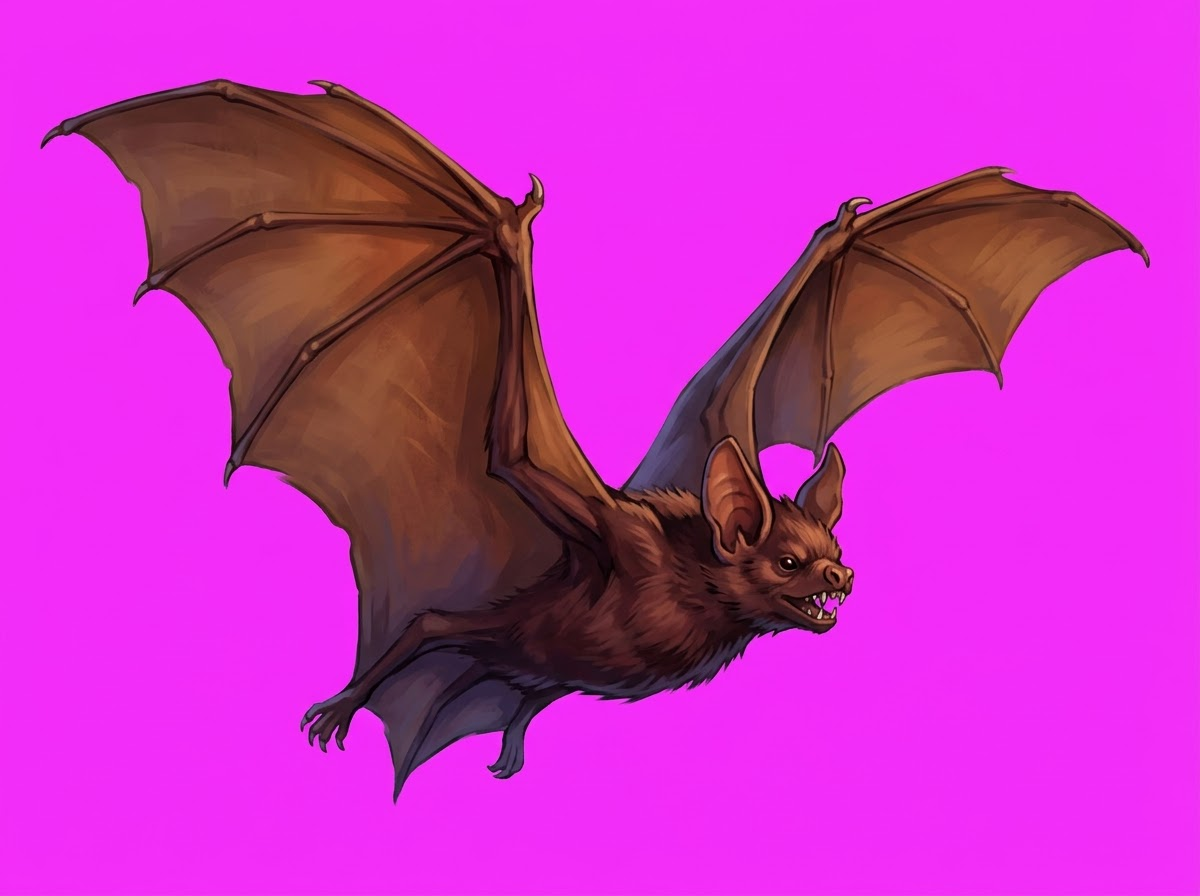
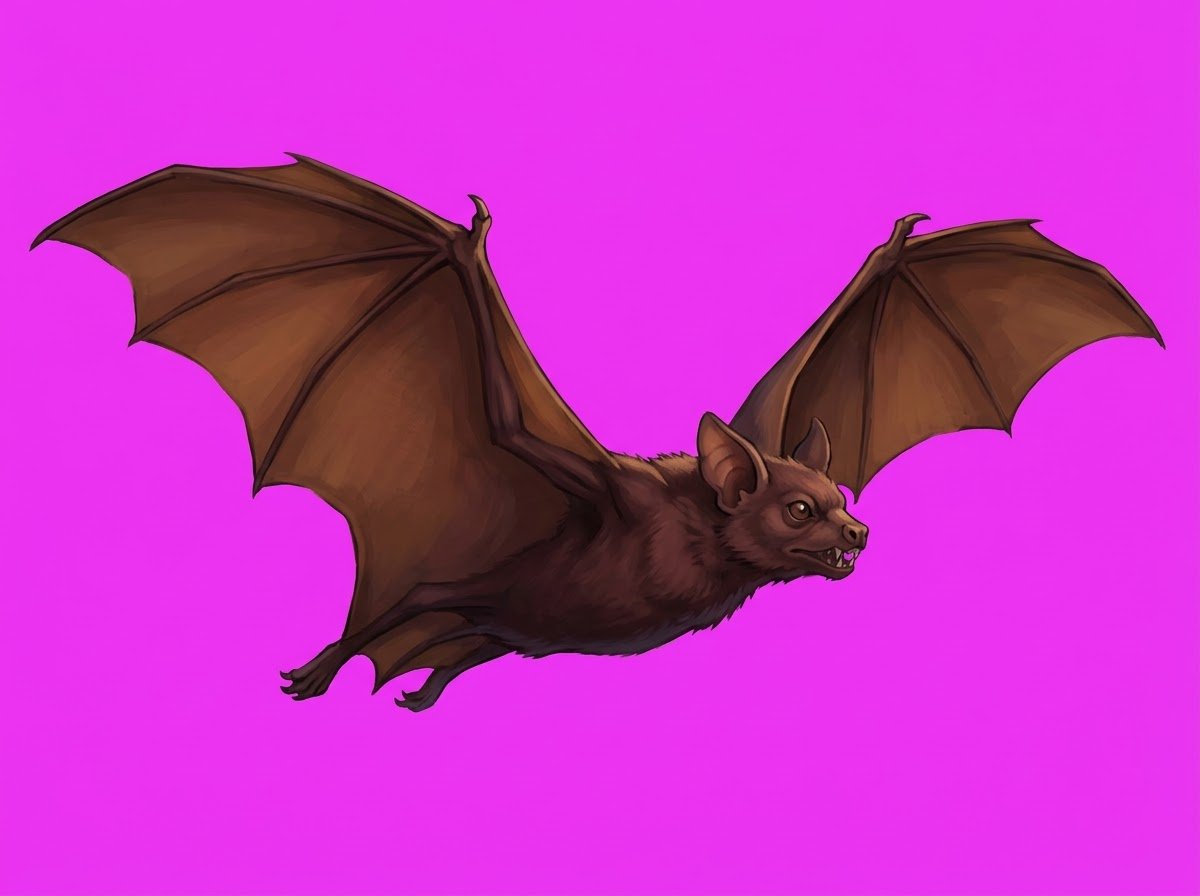
M5: bat attempt 2 fixes the wings, not the head; recommend an edit next (#46)
palette-check.py: 0.00% neutral-dark. The wing fix from the reroll held:
level, symmetric, the same angle on both sides, the neutral flap-cycle
point attempt 1 lacked. The head fix did not: zoomed in, two ears are
visible, one facing the camera and a second peeking out from behind it,
the plainest three-quarter tell there is. Matt's read against the full
image ("looks 3/4 to me") measured out correct once checked up close.

Recommending an attach-and-edit naming just the head rather than a third
fresh generation: GEMINI_NOTES.md already found this reliable ("nine hat
deliveries came back as faithful edits, nine times out of nine") for
exactly this shape of problem, one region wrong on an otherwise-good
delivery. Instruction is in ART.md, ready to paste, waiting on Matt.

9 generations spent, 4 of 5 M5 assets landed clean.

Claude-Session: https://claude.ai/code/session_01XBMyGYYyudY1v1ddbbwLLL

Changed region(s): [[0.0, 0.0625, 0.9867, 0.9062]]

diff --git a/HANDOFF.md b/HANDOFF.md
@@ -11,16 +11,21 @@ is M12's. See git log for the reasoning if it needs re-reading.
 ## Where this is
 
 **M5's "one rigged hero" is done**, verified against a real running build.
-Background, tileset, hero and the pose-sheet test have all landed; the bat
-is rerolling (attempt 2 sent, not yet delivered) after a scratch rig test
-of attempt 1 showed the real problem in motion, not in the still: the
-wings' asymmetry left no clean neutral point to flap from. That test also
-found a rig defect independent of the pose question, a rectangular chunk of
-wing content baked statically into the body sprite, exposed the moment the
-wing rotated away from covering it, worth remembering whichever delivery
-gets cut for real: keep a part's box tight to that part, don't rely on
-another part's rest-pose position to hide an overlap that won't survive
-animation.
+Background, tileset, hero and the pose-sheet test have all landed. The bat
+is on attempt 2, partial: the wing fix held, level and symmetric, the
+neutral flap point attempt 1 lacked. The head fix did not, zoomed in, two
+ears are visible, the plainest three-quarter tell, confirming Matt's
+at-a-glance read once measured up close. Recommended next step is an
+attach-and-edit naming just the head, not a third fresh generation,
+`GEMINI_NOTES.md`'s own proven technique for a single regional fix on an
+otherwise-good delivery; waiting on Matt.
+
+A scratch rig test of attempt 1 also found a rig defect independent of the
+pose question, a rectangular chunk of wing content baked statically into
+the body sprite, exposed the moment the wing rotated away from covering it,
+worth remembering whichever delivery gets cut for real: keep a part's box
+tight to that part, don't rely on another part's rest-pose position to hide
+an overlap that won't survive animation.
 
 **`GEMINI_NOTES.md`'s open question about pose sheets is answered: yes.**
 The throwaway mannequin sheet's six cut frames measured within a few points
@@ -48,7 +53,7 @@ the one delivery that exposed it.
 future session here starts the same way. `tools/dev.sh test` passes clean,
 221 tests, 1572 checks.
 
-**8 generations spent, 4 of 5 M5 assets landed clean, the bat pending.**
+**9 generations spent, 4 of 5 M5 assets landed clean, the bat pending.**
 Past `ART.md`'s own budget-rule ceiling of 5 for the whole room, not a hard
 stop since every miss bought a real lesson, but worth naming plainly.
 
@@ -63,13 +68,13 @@ twice. Not blocking.
 
 ## The next action
 
-**The bat's attempt 2 delivery**, whenever Matt has it: symmetric level
-wings and a true head profile this time. Once it lands and cuts clean,
-M5's five prompts are all done.
+**Matt's call on the attach-and-edit for the bat's head**, `ART.md` has
+the exact instruction ready to paste. Once that lands and cuts clean, M5's
+five prompts are all done.
 
 ## Blocked on Matt
 
-1. **The bat, attempt 2**, in flight in the Gemini UI.
+1. **The bat's head fix**, attach-and-edit instruction ready in `ART.md`.
 2. **The open questions in `LEVELS.md`**, the ending swap (caged dragon vs.
    caged bird) chief among them, touching a decision `CLAUDE.md` currently
    marks "do not relitigate." Includes whether a forest sits before or

diff --git a/ART.md b/ART.md
@@ -567,6 +567,26 @@ a side view), on top of the same fixes already in place:
 > nothing cropped by the frame. The image is 1536 by 1152 pixels, aspect
 > ratio 4:3.
 
+**Attempt 2, partial landing.** `palette-check.py`: 0.00% neutral-dark. The
+wing fix held: level, symmetric, the same angle on both sides, exactly the
+neutral flap-cycle point attempt 1 lacked. The head fix did not: zoomed in,
+two ears are visible, one facing the camera and a second peeking out from
+behind it, the plainest possible three-quarter tell, confirming Matt's read
+against a still that looked closer to a profile at a glance than it
+measured up close. Body and wings are worth keeping; only the head needs
+another pass.
+
+**Recommended next step: attach-and-edit, not a third fresh generation.**
+`GEMINI_NOTES.md`'s own finding on editing a delivered painting ("nine hat
+deliveries came back as faithful edits, nine times out of nine") is a
+better fit here than fighting the compositional prior over again from
+scratch: name the one region that changes, keep everything already right.
+
+> Using this exact image, change only the head: turn it further so it
+> reads as a true side profile, only the near ear and the near eye
+> visible, the far ear fully hidden behind the head. Keep everything else
+> identical: the body, both wings, the pose, the colours, the backdrop.
+
 **5. Pose-sheet test, throwaway**,
 `assets/art_raw/_experiments/pose_sheet_test_mannequin.png`:
 
@@ -596,10 +616,10 @@ never promoted to `assets/art/`, per this section's own convention for a
 test that was never meant to ship.
 
 **Status:** background, tileset, hero and the pose-sheet test all landed
-(attempts 3, 1, 2 and 1 respectively, 8 generations total). Bat rerolling
-on attempt 2, Matt's call after seeing a scratch rig test of attempt 1 in
-motion: the asymmetric wings, not the three-quarter framing, were the real
-problem, no clean neutral point to flap from. Reading `hook-line-and-sentence` (read access, not attached, cloned
+(attempts 3, 1, 2 and 1 respectively). Bat on attempt 2 (9 generations
+total): wings fixed (level, symmetric), head still a three-quarter turn.
+An attach-and-edit on the head, not a third fresh generation, is the
+recommended next step, waiting on Matt. Reading `hook-line-and-sentence` (read access, not attached, cloned
 locally to check against) confirmed the camera-framing fix and turned up no
 other reusable technique this project's `GEMINI_NOTES.md` didn't already
 carry, and that same fix, restated for a character rather than a scene, is
